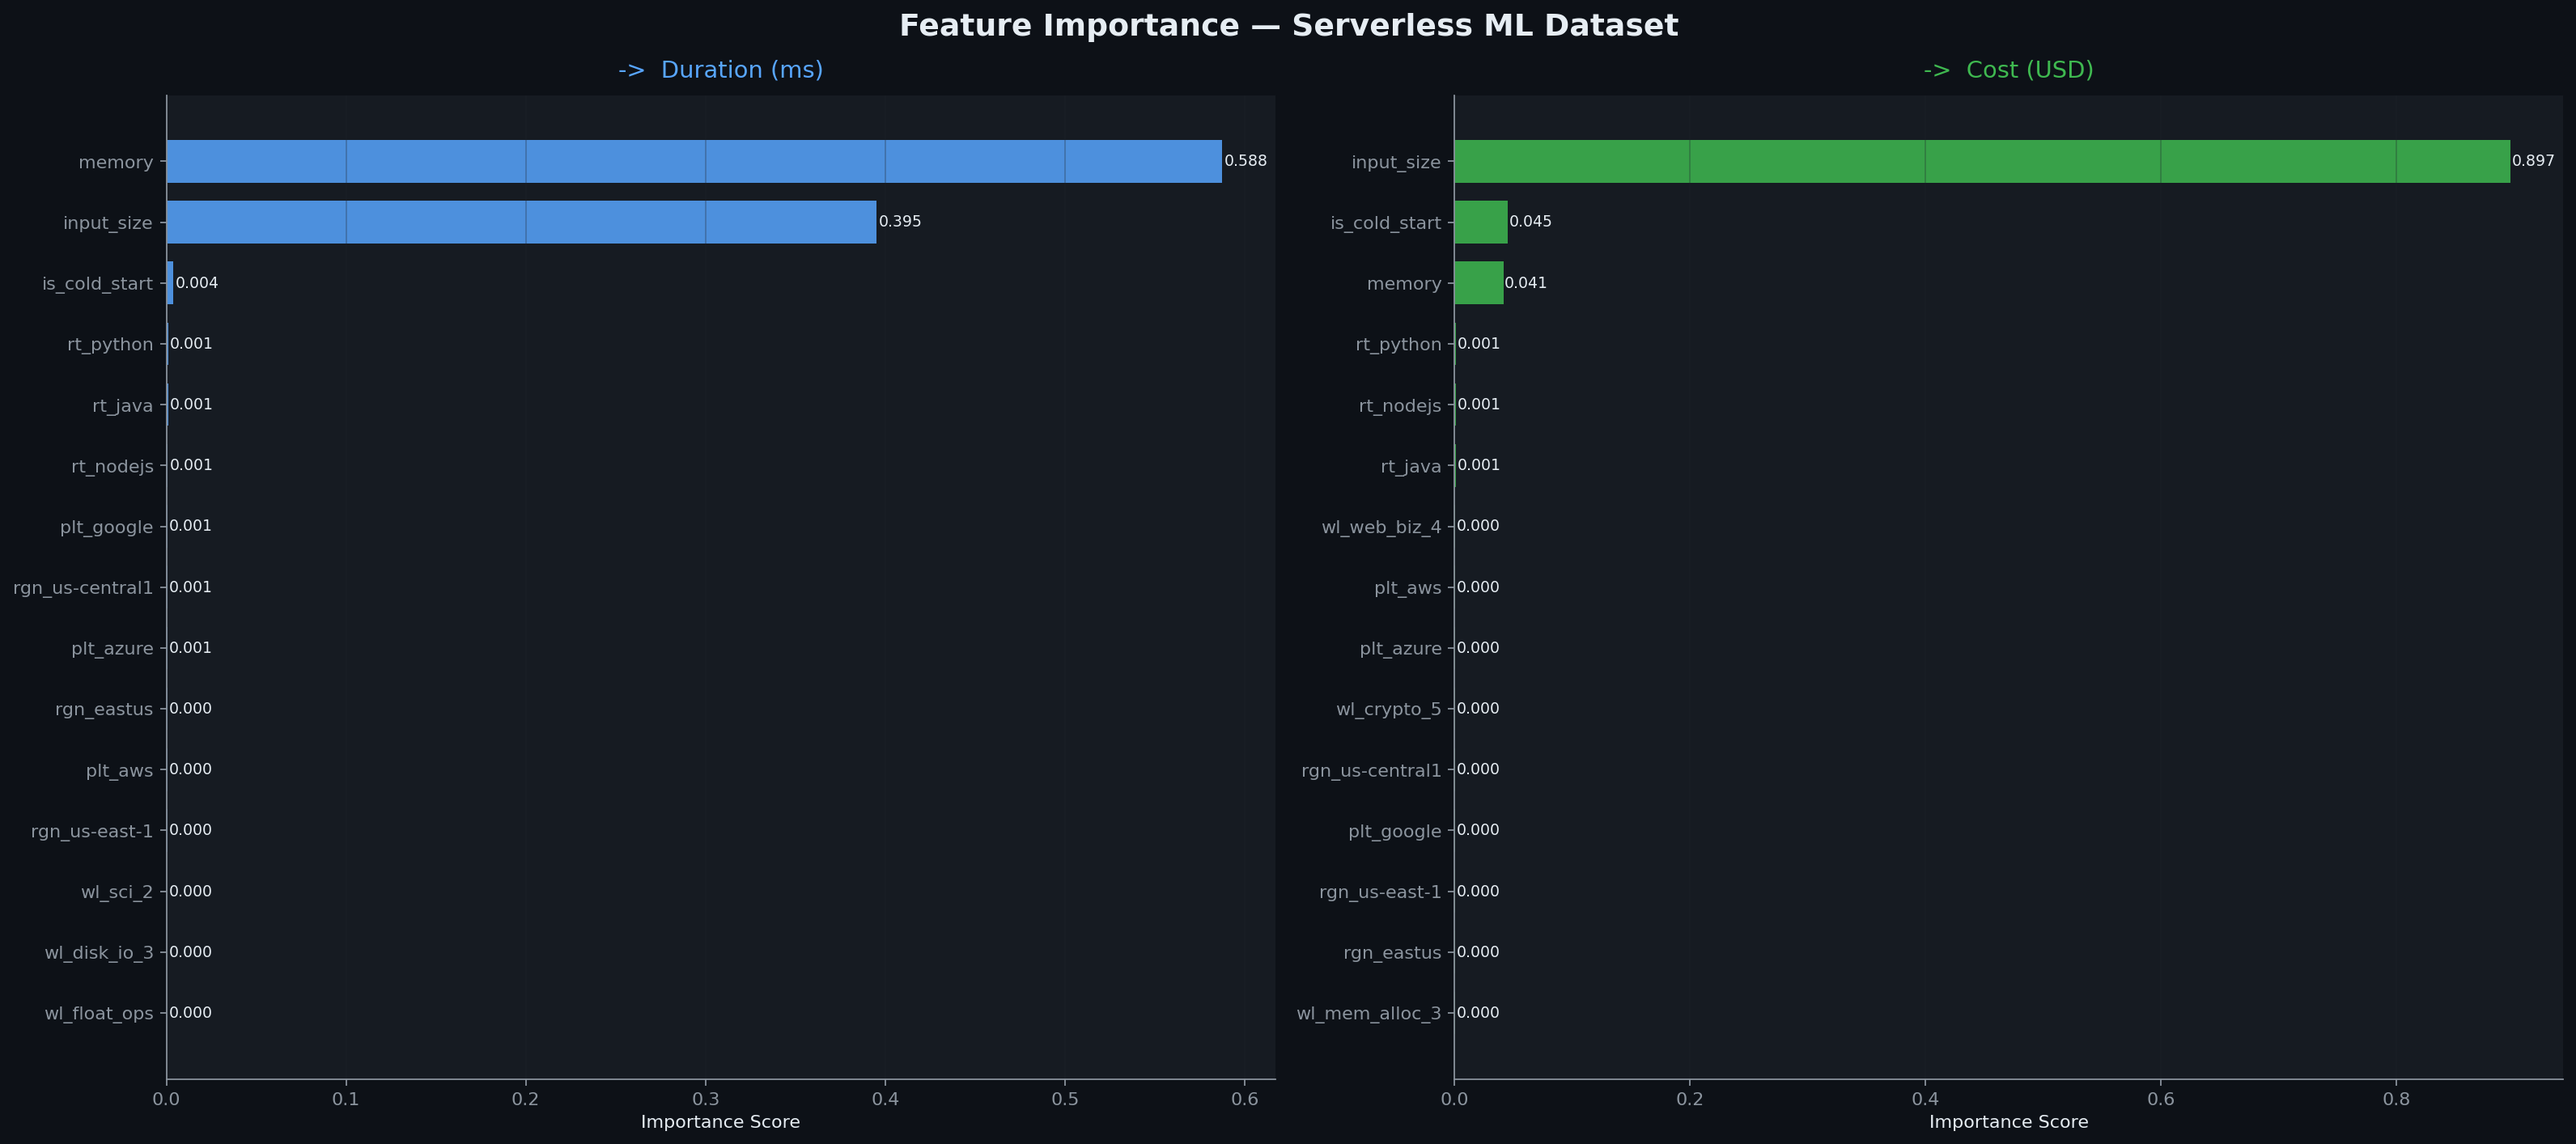
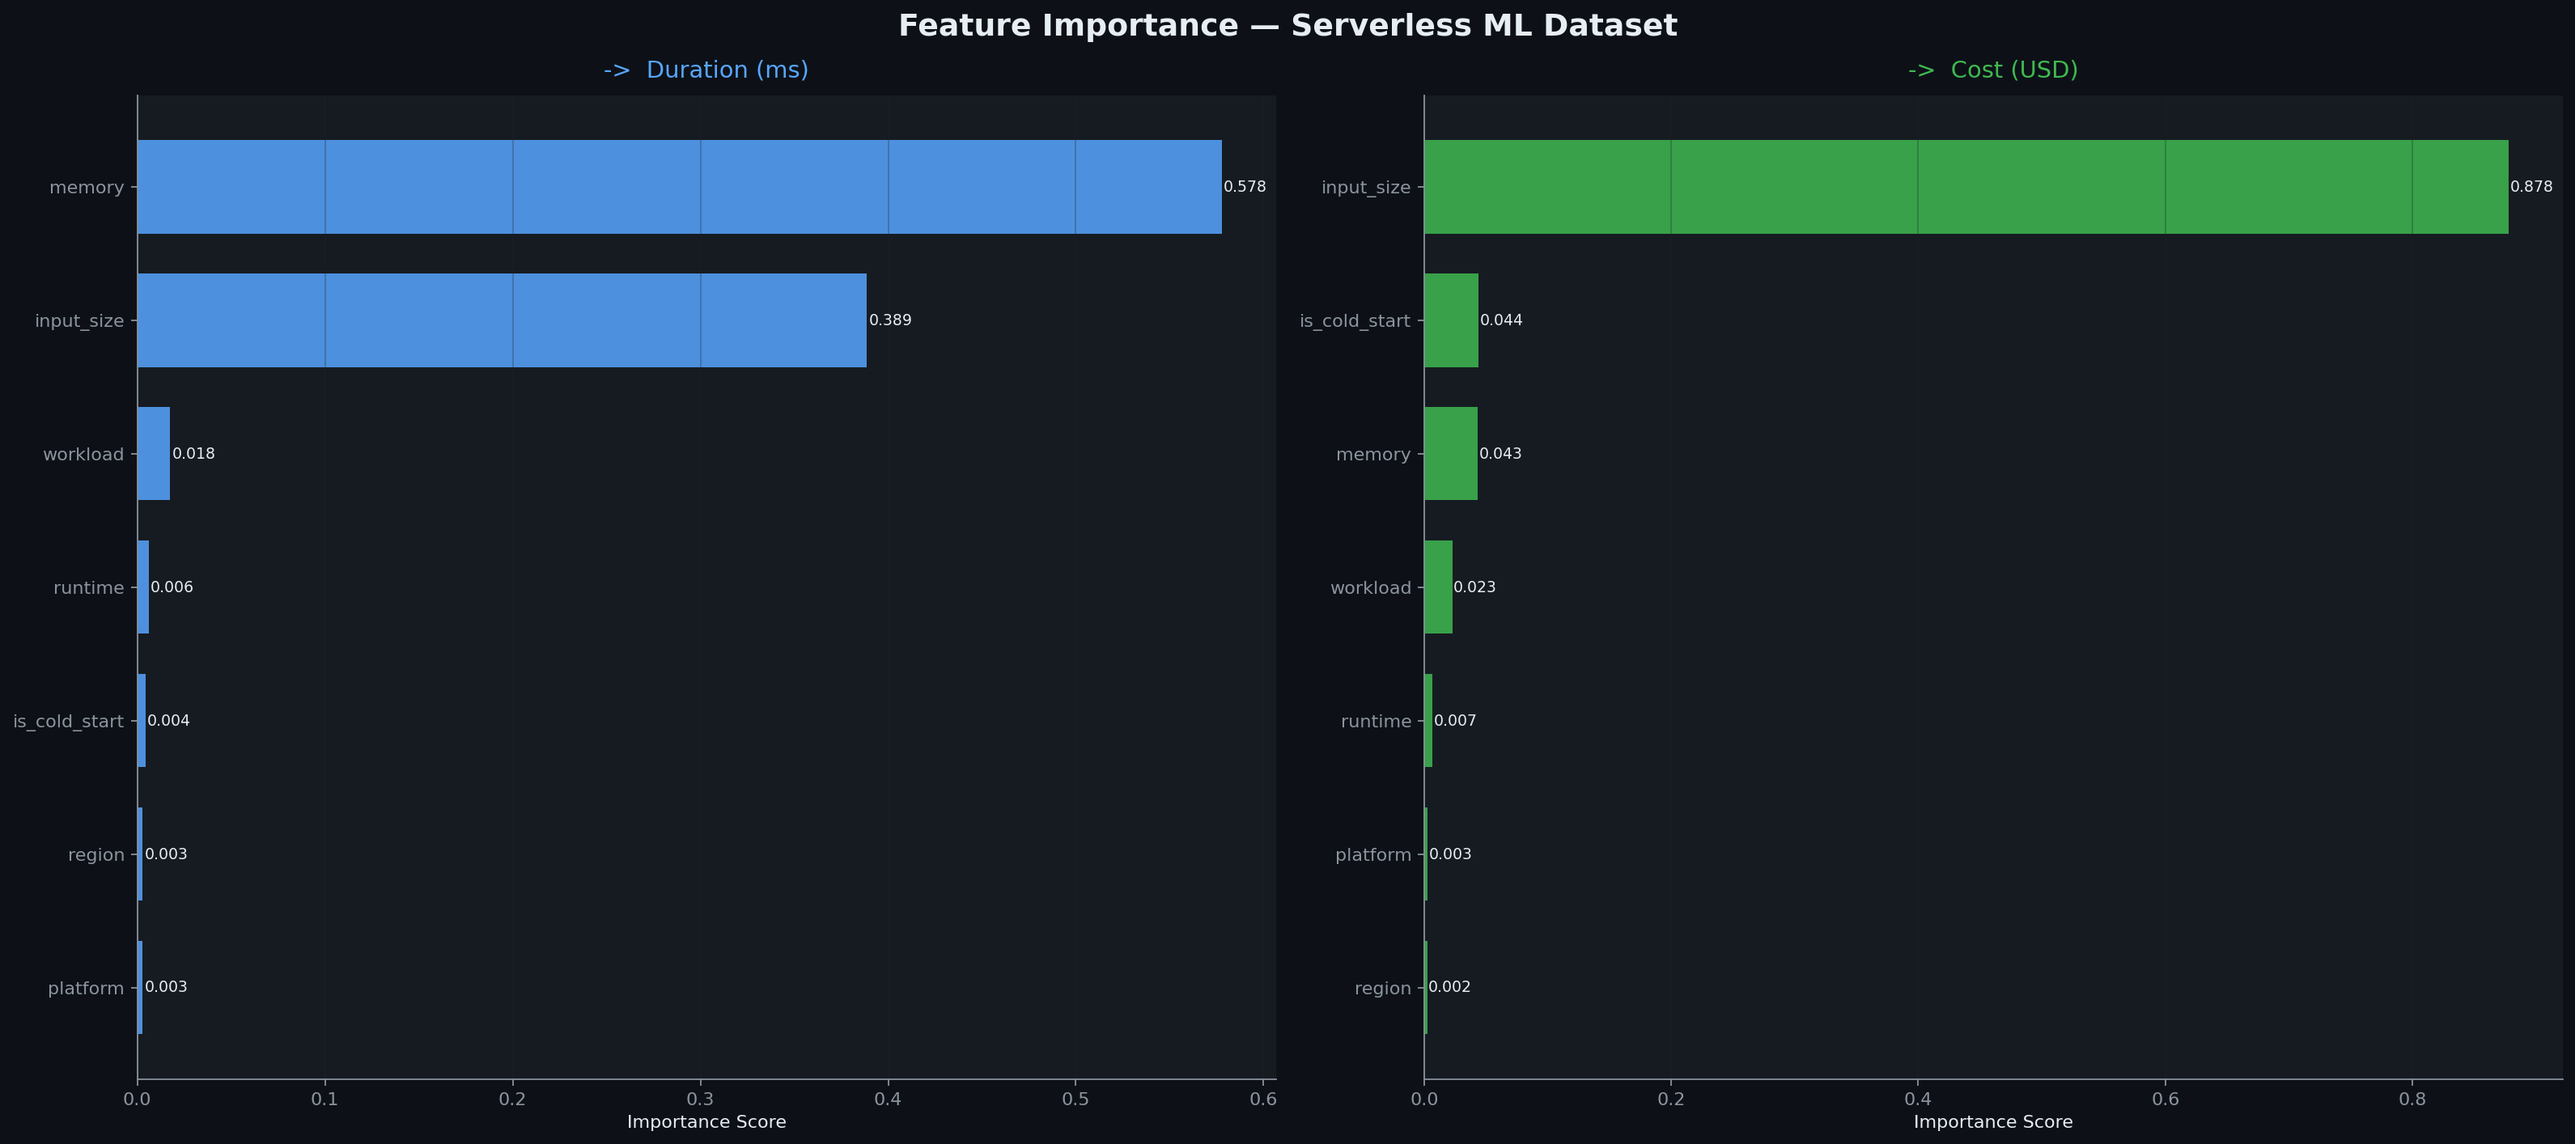
feat: add dataset analysis script and generate feature importance and correlation reports

diff --git a/scripts/dataset_analysis.py b/scripts/dataset_analysis.py
@@ -48,12 +48,13 @@ print("=" * 70)
 
 from pathlib import Path
 base_dir = Path(__file__).resolve().parent.parent
-dataset_path = base_dir / "data" / "ml_ready_dataset" / "ml_ready_dataset.csv"
+dataset_path = base_dir / "data" / "ml_ready_dataset" / "catboost_ready_dataset.csv"
 
 df = pd.read_csv(dataset_path)
 print(f"\n  Loaded  {df.shape[0]:,} rows  x  {df.shape[1]} columns")
 
 bool_cols     = df.select_dtypes(include="bool").columns.tolist()
+obj_cols      = df.select_dtypes(include=["object", "string"]).columns.tolist()
 workload_cols = [c for c in df.columns if c.startswith("workload_")]
 platform_cols = [c for c in df.columns if c.startswith("platform_")]
 
@@ -61,6 +62,8 @@ platform_cols = [c for c in df.columns if c.startswith("platform_")]
 df_num = df.copy()
 for c in bool_cols:
     df_num[c] = df_num[c].astype(int)
+for c in obj_cols:
+    df_num[c] = pd.factorize(df_num[c])[0]
 
 feature_cols = [c for c in df_num.columns if c not in ["duration_ms", "cost_usd"]]
 
@@ -170,8 +173,14 @@ fig.suptitle("Dataset Problems — Bool Encoding, Orphaned Rows & Duplicate Feat
 
 # 3a — Workload coverage pie
 ax = axes[0]
-orphaned_count = (row_workload_sum == 0).sum()
-sizes  = [(row_workload_sum > 0).sum(), orphaned_count]
+if "workload" in df.columns:
+    orphaned_count = df["workload"].isna().sum()
+    has_label_count = df["workload"].notna().sum()
+else:
+    orphaned_count = (row_workload_sum == 0).sum()
+    has_label_count = (row_workload_sum > 0).sum()
+
+sizes  = [has_label_count, orphaned_count]
 colors = [ACCENT2, ACCENT3]
 labels = [f"Has Label\n({sizes[0]:,})", f"Orphaned\n({sizes[1]:,})"]
 wedges, texts, autotexts = ax.pie(sizes, labels=labels, colors=colors, autopct="%1.1f%%",
@@ -183,7 +192,15 @@ ax.set_title(title_wl, color=ACCENT2 if orphaned_count == 0 else ACCENT3, fontsi
 
 # 3b — Platform distribution
 ax = axes[1]
-if "platform_aws" in df.columns:
+if "platform" in df.columns:
+    vc = df["platform"].value_counts().to_dict()
+    plat_data = {
+        "AWS": vc.get("aws", 0),
+        "Azure": vc.get("azure", 0),
+        "Google": vc.get("google", 0)
+    }
+    plat_title = "Platform Distribution\n(Using platform column)"
+elif "platform_aws" in df.columns:
     plat_data = {
         "AWS": int(df["platform_aws"].sum()),
         "Azure": int(df["platform_azure"].sum()),
